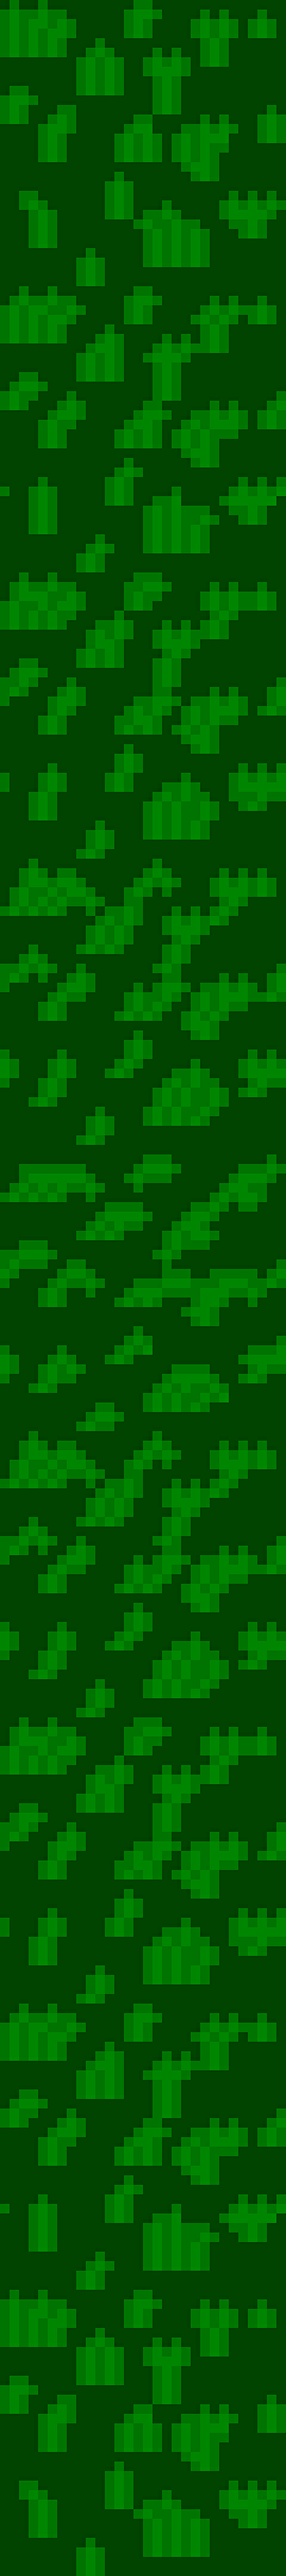
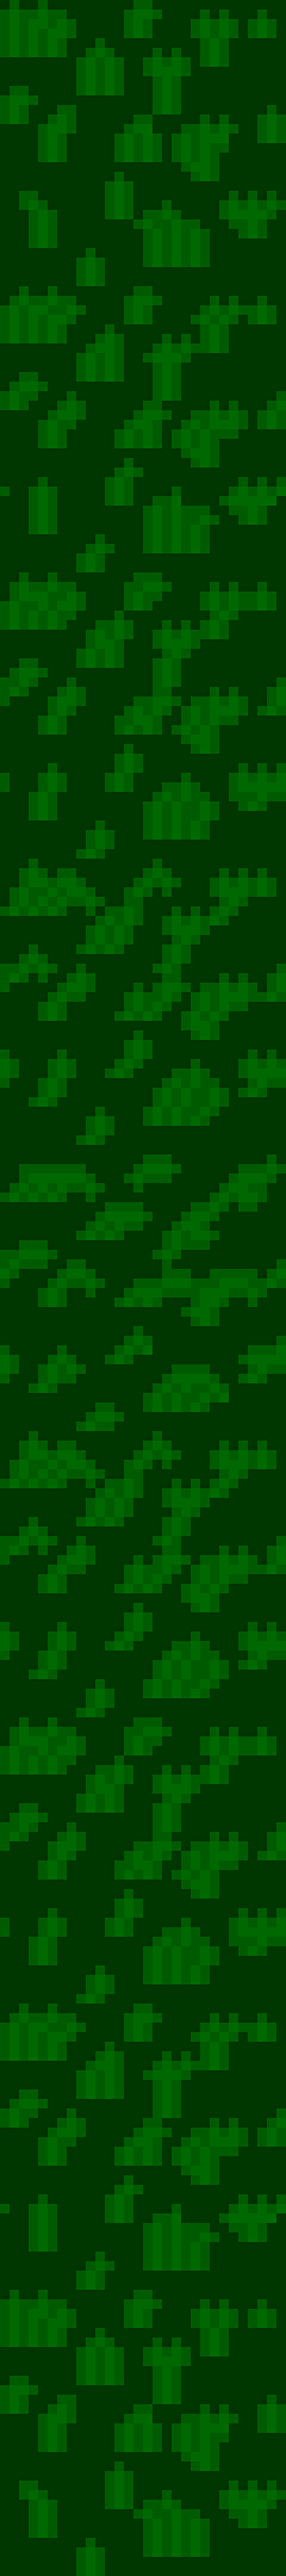
Several bug fixes
-Jump directions
-Pull directions
-Walking over locked blocks
-Darkened grass

Changed region(s): [[0.0, 0.0, 1.0, 1.0]]

diff --git a/Assets/Scripts/Player.cs b/Assets/Scripts/Player.cs
@@ -8,12 +8,15 @@ public class Player : BoardObject
 	private Animator animator;
 	public bool isBot;
 	public float pushPullDelay = 0.2f;
-	public float jumpDelay = 0.2f;
+	public float landDelay = 0.2f;
 	private bool isJumping;
 	private bool isPulling;
+	private bool isLanded;
 	private float jumpTime;
+	private float landTime;
 	private float pushPullTime;
-	private int prevDirection = 3;
+	public int prevDirection = 3;
+	public int jumpDirection = 3;
 	public int pullDirection = 3;
 	private bool jumpAgainstWall = false;
 	private Vector2 jumpStartPosition;
@@ -33,7 +36,6 @@ public class Player : BoardObject
 		animator = GetComponent<Animator> ();
 	}
 		
-
 	// Update is called once per frame
 	void Update ()
 	{
@@ -41,10 +43,11 @@ public class Player : BoardObject
 
 		if (isJumping) {
 			jumpTime += Time.deltaTime * speed;
-	
 			if (jumpTime >= 1) {
 				isJumping = false;
+				isLanded = true;
 				jumpAgainstWall = false;
+				landTime = 0;
 				jumpStartPosition = Vector2.zero;
 			} else {
 				if (jumpAgainstWall) {
@@ -54,14 +57,20 @@ public class Player : BoardObject
 				}
 			}
 		}
-	
+
+		if (isLanded) {
+			landTime += Time.deltaTime;
+			if (landTime < landDelay) {
+				return;
+			}
+		}
+
 		if (!moving) {
 			int direction = 0; // L R D U
 			int destR = row;
 			int destC = col;
 			int pullSrcR = row;
 			int pullSrcC = col;
-			//bool pull_key;
 
 			if (!isBot) {
 				if (Input.GetKeyDown (KeyCode.Space) && !isBot && !isJumping) {
@@ -98,6 +107,7 @@ public class Player : BoardObject
 				animator.SetInteger ("Direction", direction);
 				if (Input.GetKey (KeyCode.Tab) || Input.GetKey (KeyCode.LeftShift) || Input.GetKey (KeyCode.RightShift)) {
 					animator.SetInteger ("Prevdirection", pullDirection);
+					jumpDirection = pullDirection;
 					if (!isPulling) {
 						pullDirection = prevDirection;
 						isPulling = true;
@@ -128,11 +138,6 @@ public class Player : BoardObject
 			}
 				
 			if (direction >= 1 && direction <= 4) {
-
-				//Debug.Log("player in dest position " + (mgr.GetPlayerInPosition(destR, destC)!= null));
-				//Debug.Log ("block in dest position " + (mgr.GetBlockInPosition (destR, destC) != null));
-					
-
 				if ((mgr.GetPlayerInPosition (destR, destC) != null) &&
 				    (mgr.CheckForBlock (destR, destC) == false)) {
 					return; //another player in your destination square, and no block underneath them
@@ -141,8 +146,7 @@ public class Player : BoardObject
 					if (mgr.CheckForBlock (pullSrcR, pullSrcC)) {
 						//If pull key held down and move fwd, just push block
 						if (pullDirection == direction) {
-							PushBlock (direction, row, col, destR, destC); //Ask Calvin:  I don't understand this line
-							return;
+							PushBlock (direction, row, col, destR, destC);
 						} else {
 							PullBlock (direction, row, col, destR, destC);
 							return;
@@ -156,6 +160,7 @@ public class Player : BoardObject
 					Move (destR, destC);
 					mgr.SetPlayerPosition (destR, destC, this); 
 					mgr.VacatePlayerPosition (row, col);
+					pullDirection = prevDirection;
 					return; 
 				}
 			}
@@ -164,10 +169,11 @@ public class Player : BoardObject
 
 	private void SetPrevDirectionVars (int direction)
 	{
-		if (direction != prevDirection) {
+		if (direction != prevDirection && !isPulling) {
 			pushPullTime = 0;
 		}
 		prevDirection = direction;
+		jumpDirection = direction;
 		animator.SetInteger ("Prevdirection", prevDirection);
 	}
 
@@ -179,13 +185,13 @@ public class Player : BoardObject
 		//pure movement 
 		int destR = row;
 		int destC = col;
-		if (prevDirection == 1) {
+		if (jumpDirection == 1) {
 			destC = Mathf.Clamp (col - 1, 0, mgr.boardSize + 1);
-		} else if (prevDirection == 2) {
+		} else if (jumpDirection == 2) {
 			destC = Mathf.Clamp (col + 1, 0, mgr.boardSize + 1);
-		} else if (prevDirection == 3) {
+		} else if (jumpDirection == 3) {
 			destR = Mathf.Clamp (row + 1, 0, mgr.boardSize + 1);
-		} else if (prevDirection == 4) {
+		} else if (jumpDirection == 4) {
 			destR = Mathf.Clamp (row - 1, 0, mgr.boardSize + 1);
 		}
 		if (destR == row && destC == col) {
@@ -207,18 +213,24 @@ public class Player : BoardObject
 
 	private void PushBlock (int direction, int row, int col, int destR, int destC)
 	{
-		animator.SetBool ("Pushing", true);
-		pushPullTime += Time.deltaTime;
-		if (pushPullTime < pushPullDelay) {
-			return;
+		// Check if blocks are not locked w/o pushing
+		if (mgr.PushBlock (direction, destR, destC, false)) {
+			animator.SetBool ("Pushing", true);
+			pushPullTime += Time.deltaTime;
+			if (pushPullTime < pushPullDelay) {
+				return;
+			}
+		} else if (((mgr.GetBlockInPosition (row, col) != null) &&
+		           (mgr.GetPlayerInPosition (destR, destC) == null) &&
+		           (mgr.GetBlockInPosition (destR, destC) != null))) { 
+			// Walk freely over blocks if they are locked
+			Move (destR, destC);
+			mgr.SetPlayerPosition (destR, destC, this); 
+			mgr.VacatePlayerPosition (row, col); 
 		}
-		if (mgr.PushBlock (direction, destR, destC) || //recursive call allows you to move a row of blocks 
-		//when pushing, blocks moves first, player moves next
-		    ((mgr.GetBlockInPosition (row, col) != null) &&
-		    (mgr.GetPlayerInPosition (destR, destC) == null) &&
-		    (mgr.GetBlockInPosition (destR, destC) != null))) {
-			// or both current position and dest position is on a block, and no player on the dest block
 
+		// Push block if they are not locked, after push delay is over
+		if (mgr.PushBlock (direction, destR, destC, true)) {
 			Move (destR, destC);
 			mgr.SetPlayerPosition (destR, destC, this); 
 			mgr.VacatePlayerPosition (row, col); 
@@ -238,6 +250,7 @@ public class Player : BoardObject
 			Move (destR, destC);
 			mgr.SetPlayerPosition (destR, destC, this); 
 			mgr.VacatePlayerPosition (row, col); 
+			prevDirection = pullMap [animator.GetInteger ("Direction")]; //TODO: Some kind of bug still with pulling in certain direction sequences
 
 			//blocks move next to rol, col (where player was)
 			mgr.PullBlock (direction, row, col); 

diff --git a/Assets/Scripts/GameManager.cs b/Assets/Scripts/GameManager.cs
@@ -149,7 +149,7 @@ public class GameManager : MonoBehaviour
 		return true;
 	}
 
-	public bool PushBlock (int direction, int row, int col)
+	public bool PushBlock (int direction, int row, int col, bool executePush)
 	{
 		Block block = board [row, col].block;
 		if (block == null) {
@@ -172,17 +172,18 @@ public class GameManager : MonoBehaviour
 			return false;
 		}
 
-		if (PushBlock (direction, destRow, destCol)) {
+		if (PushBlock (direction, destRow, destCol, executePush)) {
+			if (executePush) {
+				block.Move (destRow, destCol);
+				board [destRow, destCol].block = block;
+				board [row, col].block = null;
 
-			block.Move (destRow, destCol);
-			board [destRow, destCol].block = block;
-			board [row, col].block = null;
-
-			if (board [row, col].player != null) {
-				//there's a player on the block, move him too
-				board [row, col].player.Move (destRow, destCol); 
-				SetPlayerPosition (destRow, destCol, board [row, col].player); 
-				VacatePlayerPosition (row, col);
+				if (board [row, col].player != null) {
+					//there's a player on the block, move him too
+					board [row, col].player.Move (destRow, destCol); 
+					SetPlayerPosition (destRow, destCol, board [row, col].player); 
+					VacatePlayerPosition (row, col);
+				}
 			}
 			return true;
 		} 
